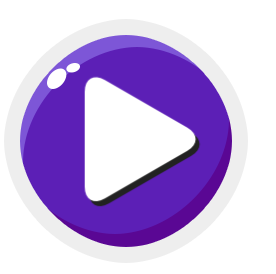
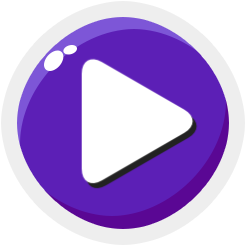
fixes

Changed region(s): [[0.0569, 0.0569, 0.939, 0.939], [0.1423, 0.7114, 0.1707, 0.7683]]

diff --git a/core/src/com/popov/flappygame/states/MenuState.java b/core/src/com/popov/flappygame/states/MenuState.java
@@ -1,5 +1,6 @@
 package com.popov.flappygame.states;
 
+import com.badlogic.gdx.Gdx;
 import com.badlogic.gdx.graphics.Texture;
 import com.badlogic.gdx.graphics.g2d.SpriteBatch;
 import com.popov.flappygame.FlappyGame;
@@ -11,20 +12,31 @@ public class MenuState extends State {
 
     public MenuState(FlappyGame flappyGame) {
         super(flappyGame);
+        orthographicCamera.setToOrtho(
+                false,
+                flappyGame.getScreenWidth(),
+                flappyGame.getScreenHeight());
     }
 
     @Override
     protected void handleInput() {
-
+        if (Gdx.input.isTouched()) {
+            flappyGame.getGameStateManager().set(new PlayState(flappyGame));
+        }
     }
 
     @Override
     public void update(float delta) {
-
+        handleInput();
     }
 
     @Override
     public void render(SpriteBatch spriteBatch) {
+        orthographicCamera.setToOrtho(
+                false,
+                flappyGame.getScreenWidth(),
+                flappyGame.getScreenHeight());
+        spriteBatch.setProjectionMatrix(orthographicCamera.combined);
         spriteBatch.begin();
         spriteBatch.draw(
                 backgroundTexture,
@@ -32,10 +44,10 @@ public class MenuState extends State {
                 flappyGame.getScreenWidth(), flappyGame.getScreenHeight());
         spriteBatch.draw(
                 playButtonTexture,
-                (flappyGame.getScreenWidth() - playButtonTexture.getWidth())/2,
-                (flappyGame.getScreenHeight() - playButtonTexture.getHeight())/2,
-                playButtonTexture.getWidth(),
-                playButtonTexture.getHeight());
+                (flappyGame.getScreenWidth() - playButtonTexture.getWidth()*flappyGame.getFactorX())/2,
+                (flappyGame.getScreenHeight() - playButtonTexture.getHeight()*flappyGame.getFactorY())/2,
+                playButtonTexture.getWidth() * flappyGame.getFactorX(),
+                playButtonTexture.getHeight() * flappyGame.getFactorY());
         spriteBatch.end();
     }
 

diff --git a/core/src/com/popov/flappygame/states/PlayState.java b/core/src/com/popov/flappygame/states/PlayState.java
@@ -1,0 +1,50 @@
+package com.popov.flappygame.states;
+
+import com.badlogic.gdx.graphics.g2d.SpriteBatch;
+import com.popov.flappygame.FlappyGame;
+import com.popov.flappygame.sprites.Bird;
+
+public class PlayState extends State {
+
+    private Bird bird = new Bird(30, 500);
+
+    public PlayState(FlappyGame flappyGame) {
+        super(flappyGame);
+        orthographicCamera.setToOrtho(
+                false,
+                flappyGame.getScreenWidth(),
+                flappyGame.getScreenHeight());
+    }
+
+    @Override
+    protected void handleInput() {
+
+    }
+
+    @Override
+    public void update(float delta) {
+        bird.update(delta);
+    }
+
+    @Override
+    public void render(SpriteBatch spriteBatch) {
+        orthographicCamera.setToOrtho(
+                false,
+                flappyGame.getScreenWidth(),
+                flappyGame.getScreenHeight());
+        spriteBatch.setProjectionMatrix(orthographicCamera.combined);
+        spriteBatch.begin();
+        spriteBatch.draw(
+                bird.getBirdTexture(),
+                bird.getPosition().x,
+                bird.getPosition().y,
+                bird.getBirdTexture().getWidth() * flappyGame.getFactorX(),
+                bird.getBirdTexture().getHeight() * flappyGame.getFactorY());
+        spriteBatch.end();
+    }
+
+    @Override
+    public void dispose() {
+
+    }
+}

diff --git a/core/src/com/popov/flappygame/FlappyGame.java b/core/src/com/popov/flappygame/FlappyGame.java
@@ -13,18 +13,25 @@ import lombok.Getter;
 public class FlappyGame extends ApplicationAdapter {
 
 	@Getter
-	public final int screenWidth = 480;
+	private int screenWidth;
 	@Getter
-	public final int screenHeight = 800;
+	private int screenHeight;
+	@Getter
+	private float factorX;
+	@Getter
+	private float factorY;
+
 	@Getter
 	public final String title = "Flappy Game";
-
+	@Getter
 	private GameStateManager gameStateManager = new GameStateManager();
 
 	private SpriteBatch batch;
 
 	@Override
 	public void create () {
+		resize(Gdx.graphics.getWidth(), Gdx.graphics.getHeight());
+
 		batch = new SpriteBatch();
 		Gdx.gl.glClearColor(1, 0, 0, 1);
 		gameStateManager.push(new MenuState(this));
@@ -42,4 +49,13 @@ public class FlappyGame extends ApplicationAdapter {
 		batch.dispose();
 
 	}
+
+	@Override
+	public void resize (int width, int height) {
+		screenWidth = Gdx.graphics.getWidth();
+		factorX = screenWidth / 1080f;
+		screenHeight = Gdx.graphics.getHeight();
+		factorY = screenHeight / 1920f;
+	}
+
 }

diff --git a/core/src/com/popov/flappygame/sprites/Bird.java b/core/src/com/popov/flappygame/sprites/Bird.java
@@ -1,0 +1,26 @@
+package com.popov.flappygame.sprites;
+
+import com.badlogic.gdx.graphics.Texture;
+import com.badlogic.gdx.math.Vector3;
+
+import lombok.Getter;
+
+public class Bird {
+    private final static int GRAVITY = -15;
+    @Getter
+    private final Vector3 position = new Vector3();
+    private final Vector3 velocity = new Vector3();
+    @Getter
+    private final Texture birdTexture = new Texture("bird.png");
+
+    public Bird(int x, int y) {
+        this.position.set(x, y, 0);
+    }
+
+    public void update(float diff) {
+        velocity.add(0, GRAVITY, 0);
+        velocity.scl(diff);
+        position.add(0, velocity.y, 0);
+        velocity.scl(1/diff);
+    }
+}

diff --git a/desktop/src/com/popov/flappygame/desktop/DesktopLauncher.java b/desktop/src/com/popov/flappygame/desktop/DesktopLauncher.java
@@ -8,8 +8,8 @@ public class DesktopLauncher {
 	public static void main (String[] arg) {
 		LwjglApplicationConfiguration config = new LwjglApplicationConfiguration();
 		FlappyGame flappyGame = new FlappyGame();
-		config.width = flappyGame.getScreenWidth();
-		config.height = flappyGame.getScreenHeight();
+		config.width = 480;
+		config.height = 800;
 		config.title = flappyGame.getTitle();
 		new LwjglApplication(flappyGame, config);
 	}
